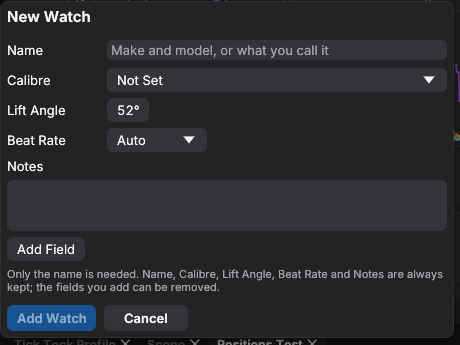
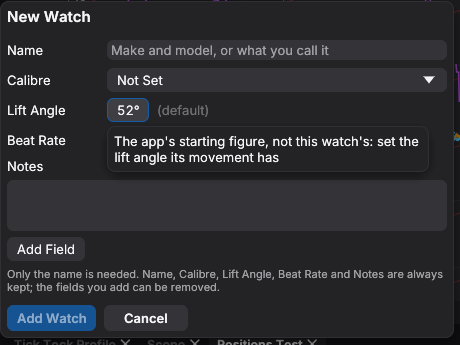
Watch form: "(default)" and a hover on an unset lift; hovers on calibre figures
Claude-Session: https://claude.ai/code/session_01GsSg6RBnTb5YLpmgbJGamZ

Changed region(s): [[0.2435, 0.3768, 0.913, 0.4928], [0.3348, 0.2899, 0.4565, 0.3478]]

diff --git a/crates/timegrapher-app/src/watches.rs b/crates/timegrapher-app/src/watches.rs
@@ -905,6 +905,10 @@ pub fn form(ctx: &egui::Context, f: &mut Form, cal: &mut Calibres) -> Option<For
     act
 }
 
+/// The hover of a figure the calibre sets.
+const FROM_CALIBRE: &str =
+    "Set by the calibre: pick another calibre, or change it in Manage Calibres…";
+
 fn fields(ui: &mut egui::Ui, w: &mut Watch, cal: &mut Calibres) {
     let pal = theme::pal(ui);
     theme::row(
@@ -952,19 +956,25 @@ fn fields(ui: &mut egui::Ui, w: &mut Watch, cal: &mut Calibres) {
         |ui| match cal_lift {
             Some(l) => {
                 w.lift = Some(l);
-                ui.label(format!("{}° from the calibre", fields::plain(l)));
+                ui.label(format!("{}° from the calibre", fields::plain(l)))
+                    .on_hover_text(FROM_CALIBRE);
             }
             None => {
                 let mut lift = w.lift.unwrap_or(DEFAULT_LIFT_DEG);
-                if ui
-                    .add(
-                        egui::DragValue::new(&mut lift)
-                            .range(10.0..=90.0)
-                            .suffix("°"),
-                    )
-                    .changed()
-                {
+                let field = ui.add(
+                    egui::DragValue::new(&mut lift)
+                        .range(10.0..=90.0)
+                        .suffix("°"),
+                );
+                if field.changed() {
                     w.lift = Some(lift);
+                }
+                if w.lift.is_none() {
+                    ui.label(RichText::new("(default)").color(theme::pal(ui).text_tertiary));
+                    field.on_hover_text(
+                        "The app's starting figure, not this watch's: set the lift angle its \
+                         movement has",
+                    );
                 }
             }
         },
@@ -979,7 +989,8 @@ fn fields(ui: &mut egui::Ui, w: &mut Watch, cal: &mut Calibres) {
         |ui| match cal_bph {
             Some(b) => {
                 w.bph = Some(b);
-                ui.label(format!("{b} bph from the calibre"));
+                ui.label(format!("{b} bph from the calibre"))
+                    .on_hover_text(FROM_CALIBRE);
             }
             None => {
                 egui::ComboBox::from_id_salt("form bph")

diff --git a/crates/timegrapher-app/src/app.rs b/crates/timegrapher-app/src/app.rs
@@ -19844,6 +19844,13 @@ mod tests {
         assert_eq!((w.lift, w.bph), (Some(lift), Some(bph)), "the calibre's");
 
         let mut bare = library::Watch::new("Pepsi");
+        app.watch_form = Some(watches::Form {
+            watch: bare.clone(),
+            new: true,
+            error: None,
+        });
+        let d = drawn(&mut app);
+        assert!(d.contains("52°") && d.contains("(default)"), "{d}");
         bare.lift = Some(48.0);
         app.watch_form = Some(watches::Form {
             watch: bare,
